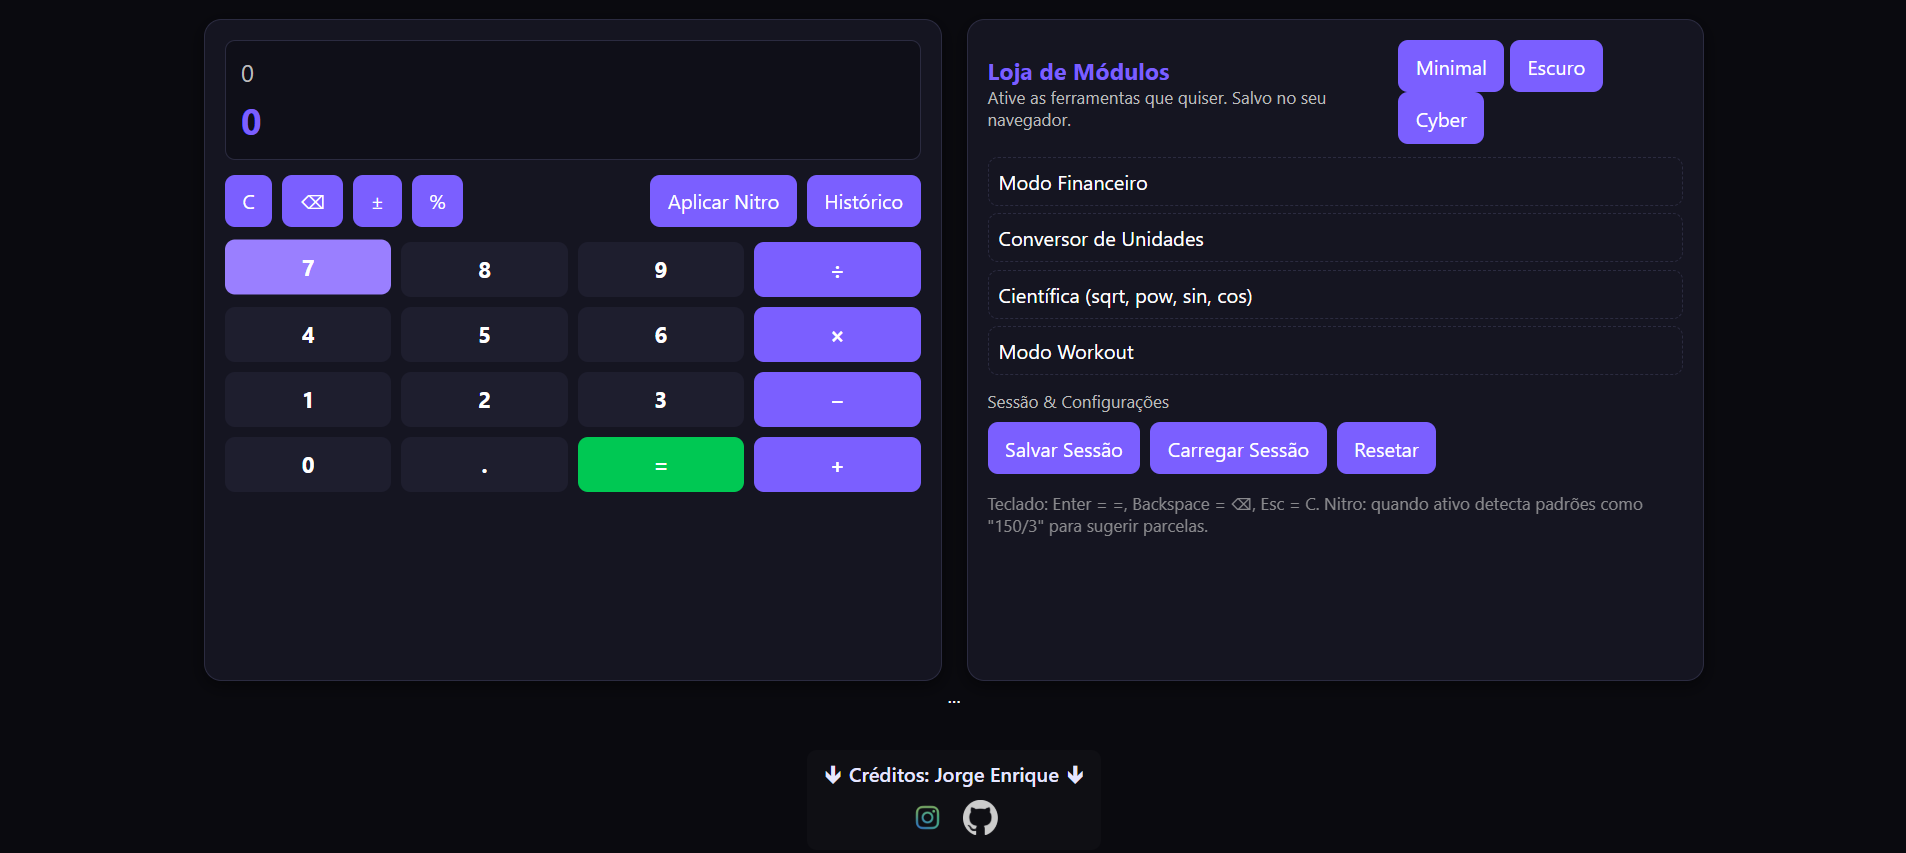
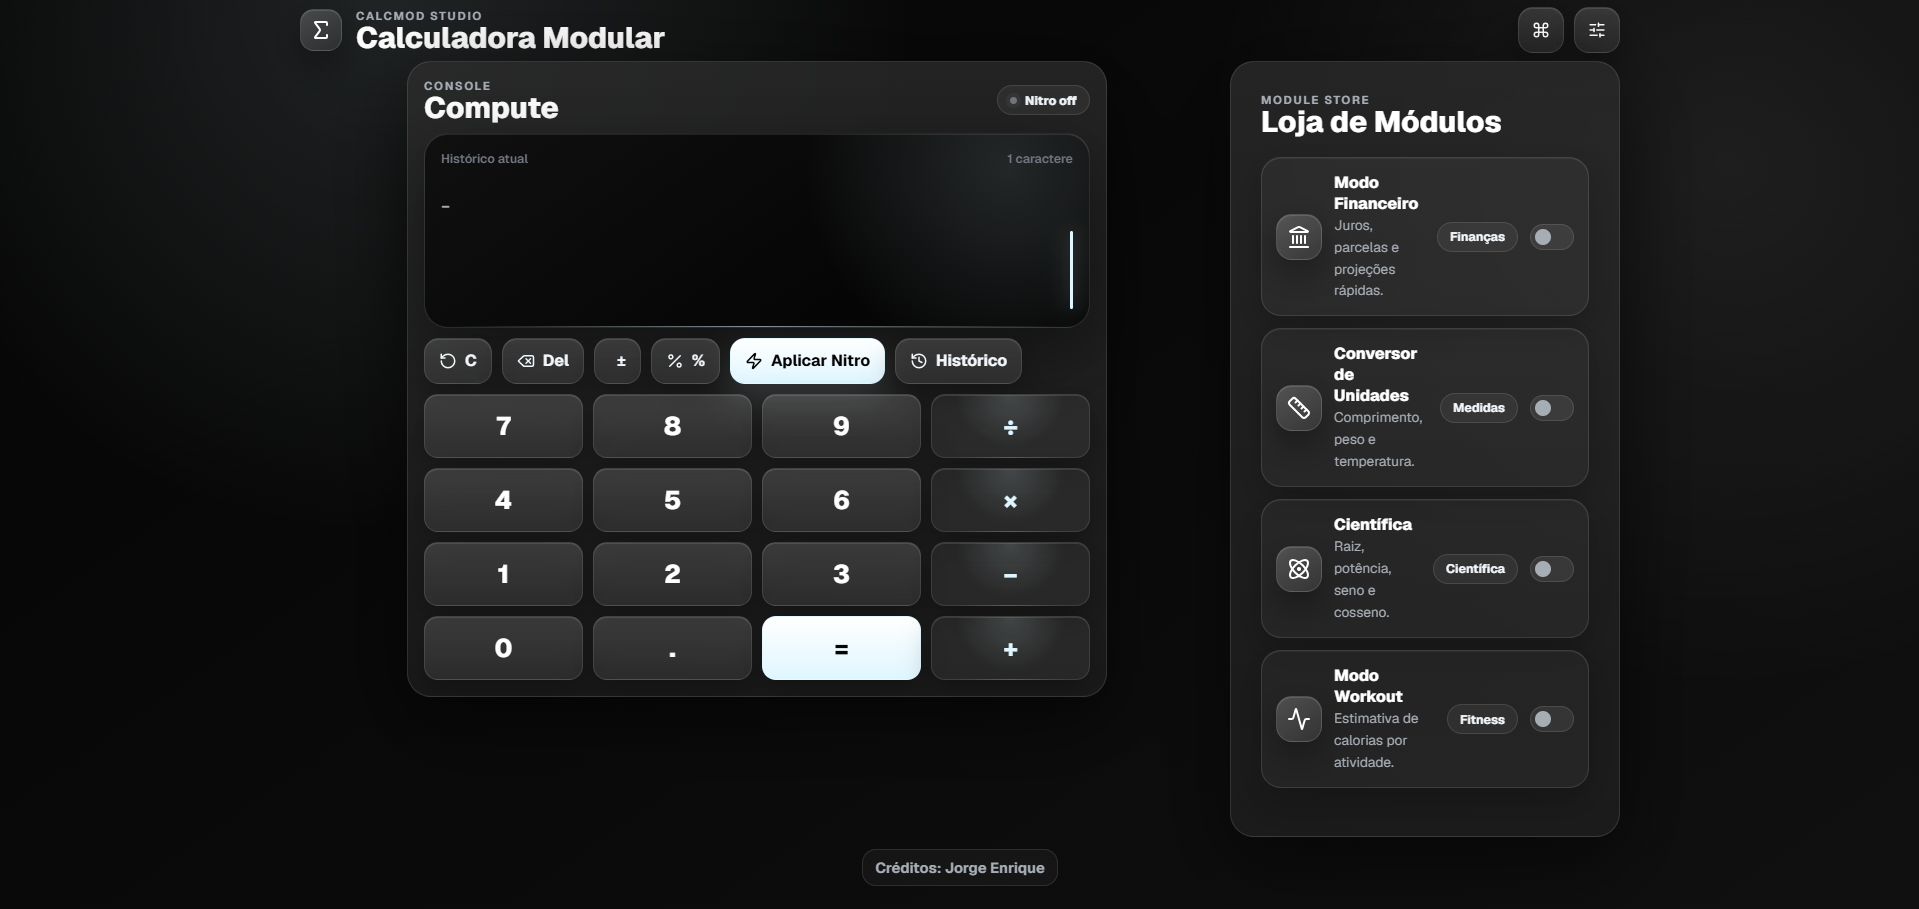
Troca de foto de projeto

diff --git a/script.js b/script.js
@@ -184,17 +184,6 @@ My goal is to constantly evolve as a developer and build solutions that positive
       codigo: "https://github.com/jorgedev1122/SK8HUB",
     },
     {
-      titulo_pt: "🚚 Landing page premium (REAL) - DB-imports",
-      descricao_pt:
-        "Projeto de vitrine digital feita para a empresa de importação DB-imports, com design moderno e responsivo.",
-      titulo_en: "🚚 Premium Landing Page (REAL) - DB-imports",
-      descricao_en:
-        "Digital showcase project made for the import company DB-imports, with a modern and responsive design.",
-      imagem: "Assets/FotoDB.png",
-      online: "https://db-imports.vercel.app/",
-      codigo: "https://github.com/jorgedev1122/DB-Imports",
-    },
-    {
       titulo_pt: " 🧟︻┳═一 Top view game shooter - SWARM",
       descricao_pt:
         "Um jogo top view shooter onde o jogador enfrente um vexame de zumbis incluindo boss, design simples porém mecânicas complexas.",
@@ -204,6 +193,17 @@ My goal is to constantly evolve as a developer and build solutions that positive
       imagem: "Assets/FotoSWARM.jpeg",
       online: "https://swarm-0sk7.onrender.com/",
       codigo: "https://github.com/jorgedev1122/SWARM",
+    },
+    {
+      titulo_pt: "🚚 Landing page premium (REAL) - DB-imports",
+      descricao_pt:
+        "Projeto de vitrine digital feita para a empresa de importação DB-imports, com design moderno e responsivo.",
+      titulo_en: "🚚 Premium Landing Page (REAL) - DB-imports",
+      descricao_en:
+        "Digital showcase project made for the import company DB-imports, with a modern and responsive design.",
+      imagem: "Assets/FotoDB.png",
+      online: "https://db-imports.vercel.app/",
+      codigo: "https://github.com/jorgedev1122/DB-Imports",
     },
     {
       titulo_pt: "🧮 Calculadora Modular",
@@ -222,15 +222,6 @@ My goal is to constantly evolve as a developer and build solutions that positive
       imagem: "Assets/FotoEduspace.png",
       online: "https://jorgedev1122.github.io/Eduspace/",
       codigo: "https://github.com/jorgedev1122/EduSpace",
-    },
-    {
-      titulo_pt: "🌐 Linktree",
-      descricao_pt: `Um site simples para reunir links importantes em um só lugar.  <br><strong>Tecnologias:</strong> HTML + CSS + JS <br><em>Aprendizado:</em> trabalhar responsividade e organização de CSS.`,
-      titulo_en: "🌐 Linktree",
-      descricao_en: `A simple site to gather important links in one place.  <br><strong>Technologies:</strong> HTML + CSS + JS <br><em>Learned:</em> responsive design and CSS organization.`,
-      imagem: "Assets/FotoLinktree2.png",
-      online: "https://jorgedev1122.github.io/My-Linktree/",
-      codigo: "https://github.com/jorgedev1122/My-Linktree",
     },
   ];
 